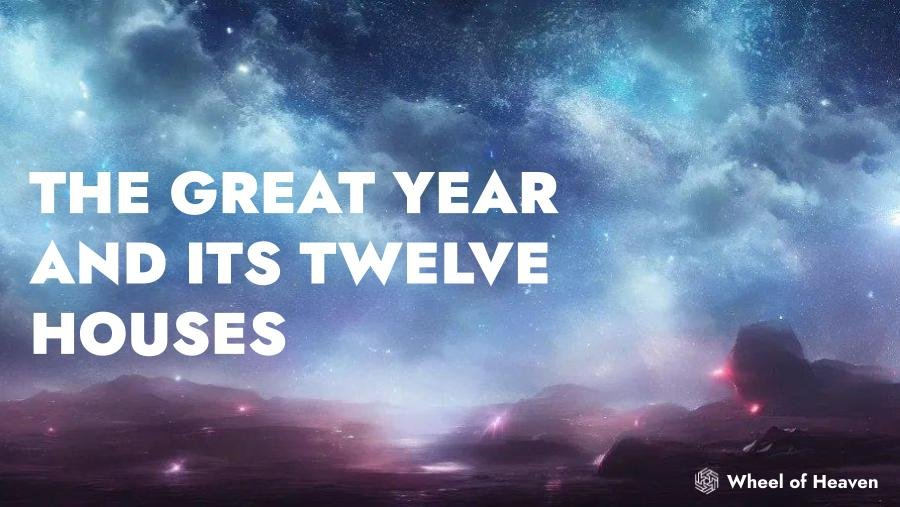
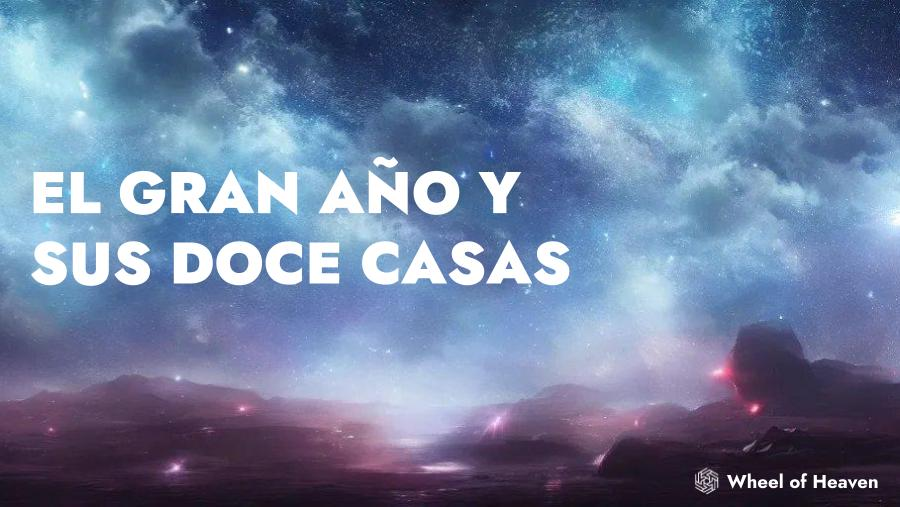
adds i18n translation into Spanish of the twelve houses article

Changed region(s): [[0.0311, 0.2959, 0.6222, 0.4438], [0.0311, 0.4734, 0.6533, 0.5621], [0.0311, 0.5917, 0.3422, 0.7101]]

diff --git a/content/es/articles/the-great-year-and-its-twelve-houses/index.md b/content/es/articles/the-great-year-and-its-twelve-houses/index.md
@@ -1,104 +1,145 @@
 ---
-title: "The Great Year and Its Twelve Houses"
-description: "The third key motion of the Earth next to the other two cycles responsible for the day and the year is what is known as the Great Year. Its cycle, also called the precession of the equinoxes, lasts 25'920 years. By dividing that cycle in 12 houses of 2’160 years each, you would be given the key to understand the purpose of the zodiac being a time marker. This knowledge is ancient and its remnants are known today as astrology."
-excerpt: "The third key motion of the Earth next to the other two cycles responsible for the day and the year is what is known as the Great Year. Its cycle, also called the precession of the equinoxes, lasts 25'920 years. By dividing that cycle in 12 houses of 2’160 years each, you would be given the key to understand the purpose of the zodiac being a time marker. This knowledge is ancient and its remnants are known today as astrology."
+title: "El Gran Año y sus Doce Casas"
+description: "El tercer movimiento clave de la Tierra, junto con los otros dos ciclos responsables del día y el año, es lo que se conoce como el Gran Año. Su ciclo, también llamado precesión de los equinoccios, dura 25.920 años. Al dividir ese ciclo en 12 casas de 2.160 años cada una, se obtendría la clave para comprender el propósito del zodíaco como marcador de tiempo. Este conocimiento es antiguo y sus vestigios son conocidos hoy en día como astrología."
+excerpt: "El tercer movimiento clave de la Tierra, junto con los otros dos ciclos responsables del día y el año, es lo que se conoce como el Gran Año. Su ciclo, también llamado precesión de los equinoccios, dura 25.920 años. Al dividir ese ciclo en 12 casas de 2.160 años cada una, se obtendría la clave para comprender el propósito del zodíaco como marcador de tiempo. Este conocimiento es antiguo y sus vestigios son conocidos hoy en día como astrología."
 date: 2023-07-07T00:00:00+00:00
 lastmod: 2023-07-07T00:00:00+00:00
 draft: false
 weight: 50
 images: ["the-great-year-and-its-twelve-houses.jpg"]
-categories: ["Context"]
-tags: ["age-of-aquarius", "the-great-awakening", "archeoastronomy"]
+categories: ["Contexto"]
+tags: ["era-de-acuario", "el-gran-despertar", "arqueoastronomía"]
 contributors: ["Zara Zinsfuss"]
 pinned: false
 homepage: false
 ---
 
-{{< alert icon="👉" text="Disclaimer: This is a revisited and slightly reworked article taken from an unmaintained blog of Zara Zinsfuss, a main contributor of Wheel of Heaven. The original blog article can still be visited on his Gitlab Pages website: <a href='https://zarazinfuss.gitlab.io/blog/posts/the-great-year-and-its-twelve-houses/'>The Great Year and Its Twelve Houses | zara◇zinsfuss</a>" />}}
+{{< alert icon="👉" text="Descargo de responsabilidad: Este es un artículo revisado y ligeramente modificado tomado de un blog no mantenido de Zara Zinsfuss, una de las principales contribuyentes de Wheel of Heaven. El artículo original del blog aún se puede visitar en su sitio web de Gitlab Pages: <a href='https://zarazinfuss.gitlab.io/blog/posts/the-great-year-and-its-twelve-houses/'>El Gran Año y sus Doce Casas | zara◇zinsfuss</a>" />}}
 
-## The Great Year
+## El Gran Año
 
-Whenever we want to understand our place in the universe, we gaze into the deep night sky, losing ourselves in the myriad of stars within our sight. It seems that the cosmic activities unfolding above us make up a grand narrative, of which we, the inhabitants of planet Earth, are merely a subscene.
+Cuando queremos comprender nuestro lugar en el universo, miramos hacia el profundo cielo nocturno, perdiéndonos en la miríada de estrellas que vemos. Parece que las actividades cósmicas que se desarrollan por encima de nosotros conforman una gran narrativa, de la cual nosotros, los habitantes del planeta Tierra, somos solo una pequeña escena.
 
-Thus, it's natural for any Earthly dweller to initiate inquiries about their location and significance in relation to the vast expanse of space and time.
+Así, es natural que cualquier habitante terrestre inicie investigaciones sobre su ubicación y su significado en relación con la vasta extensión del espacio y el tiempo.
 
-Our celestial understanding begins with acknowledging the **three key motions** of our planet Earth:
+Nuestra comprensión celestial comienza reconociendo los **tres movimientos clave** de nuestro planeta Tierra:
 
-1. Rotation around its axis
-2. Revolution around the Sun
-3. Precession of its axis
+1. Rotación alrededor de su eje
+2. Revolución alrededor del Sol
+3. Precesión de su eje
 
-The first two motions are intrinsically part of our daily life as we experience their effects in tangible ways. However, the third motion, which will be our primary focus, is less remembered despite its significance. All three motions exhibit recurrent patterns, repeating over time, forming cycles each with a specific duration or **period**.
+Los dos primeros movimientos forman parte intrínseca de nuestra vida diaria, ya que experimentamos sus efectos de manera tangible. Sin embargo, el tercer movimiento, en el que nos centraremos principalmente, es menos recordado a pesar de su importancia. Los tres movimientos exhiben patrones recurrentes, repitiéndose con el tiempo, formando ciclos cada uno con una duración o **período** específico.
 
-| Earthly Motion | Period (approx.) | Common name |
-| -              | -                | -           |
-| (1) Rotation   | 24 [h]           | Day / Night |
-| (2) Revolution | 365 [d]          | Year        |
-| (3) Precession | 26'000 [y]       | Great Year  |
+| Movimiento Terrestre | Período (aprox.) | Nombre común |
+| -                    | -                | -            |
+| (1) Rotación         | 24 [h]           | Día / Noche  |
+| (2) Revolución       | 365 [d]          | Año          |
+| (3) Precesión        | 26.000 [a]       | Gran Año     |
 
-The day-night cycle (1) is a result of the Earth's rotation and impacts life significantly. For practical purposes, we divide a day into two equal segments of `12 hours`, aligning with the [Circadian rhythm](https://en.wikipedia.org/wiki/Circadian_rhythm) that regulates wakefulness and sleep for many mammals, including humans.
+El ciclo día-noche (1) es el resultado de la rotación de la Tierra y tiene un gran impacto en la vida. Para propósitos prácticos, dividimos el día en dos segmentos iguales de `12 horas`, en línea con el [ritmo circadiano](https://es.wikipedia.org/wiki/Ritmo_circadiano) que regula la vigilia y el sueño de muchos mamíferos, incluidos los humanos.
 
-The second cycle, the year (2), is observable through the changing seasons of spring, summer, autumn, and winter, especially in higher and lower latitudes. We typically divide the solar year into twelve parts, or **months**, each approximately `30.5 days` long.
+El segundo ciclo, el año (2), es observable a través de los cambios de estaciones de primavera, verano, otoño e invierno, especialmente en latitudes más altas y más bajas. Por lo general, dividimos el año solar en doce partes, o **meses**, cada uno con una duración aproximada de `30.5 días`.
 
-The lunar cycle, though not covered in detail here, is interesting to note. It occurs almost precisely 13 times in a year, with each **lunar month** lasting slightly over `28 days`. This divergence between lunar and solar years leads to interesting questions regarding our calendar system.
+El ciclo lunar, aunque no se trata en detalle aquí, es interesante de mencionar. Ocurre casi exactamente 13 veces al año, con cada **mes lunar** con una duración ligeramente superior a `28 días`. Esta divergencia entre los años lunar y solar plantea preguntas interesantes sobre nuestro sistema de calendario.
 
-The third cycle, lesser-known yet equally significant, is the Earth's **axial precession** or **precession of the equinoxes**. Known also as **the Great Year** (3), it takes between `25,772` and `25,920 years` to complete a full cycle.
+El tercer ciclo, menos conocido pero igualmente significativo, es la **precesión axial** de la Tierra o **precesión de los equinoccios**. También conocido como **el Gran Año** (3), tarda entre `25.772` y `25.920 años` en completar un ciclo completo.
 
-[Precession]({{< relref "wiki/encyclopedia/precession.md" >}}) is a complex motion, difficult to describe without visual aids. For context, to show that we're not making this up, let's look at [Merriam-Webster](https://www.merriam-webster.com/dictionary/precession) and how they define it the notion of precession:
+[Precesión]({{< relref "wiki/encyclopedia/precession.md" >}}) es un movimiento complejo, difícil de describir sin ayudas visuales. Para contextualizar y demostrar que no lo estamos inventando, echemos un vistazo a [Merriam-Webster](https://www.merriam-webster.com/dictionary/precession) y cómo define la noción de precesión:
 
-> a comparatively slow gyration of the rotation axis of a spinning body about another line intersecting it so as to describe a cone[^merriam]
+> una giro lento y relativo del eje de rotación de un cuerpo en rotación alrededor de otra línea que lo intersecta, de manera que describe un cono[^merriam]
 
-In the case of planets such as Earth, one needs to specify that ones means the so-called precession of the equinoxes. Britannica defines the precession of the equinoxes as follows:
+En el caso de planetas como la Tierra, es necesario especificar que se trata de la llamada precesión de los equinoccios. Britannica define la precesión de los equinoccios de la siguiente manera:
 
-> ... motion of the equinoxes along the ecliptic (the plane of Earth’s orbit) caused by the cyclic precession of Earth’s axis of rotation.[^britannica]
+> ... movimiento de los equinoccios a lo largo de la eclíptica (el plano de la órbita de la Tierra) causado por la precesión cíclica del eje de rotación de la Tierra.[^britannica]
 
-The following figure elucidates axial precession, depicting the Earth's rotation axis **gyrating** in a circular pattern:
+La siguiente figura aclara la precesión axial, mostrando el eje de rotación de la Tierra **girando** en un patrón circular:
 
-{{< figure src="images/precession_schema.jpg" caption="Fig. 1 - Axial precession" >}}
+{{< figure src="images/precession_schema.jpg" caption="Fig. 1 - Precesión axial" >}}
 
-The direction of precession (circular arrow at the top) counteracts the Earth's rotational spin (circular arrows around the globe). These conflicting rotations produce a peculiar dance in our heavens. For an Earth-bound observer, this means the daily dance of the sky against the constellations counterpoints the slow waltz due to precession across its `25,920-year` cycle.
+La dirección de```markdown
+precesión (flecha circular en la parte superior) contrarresta la rotación de la Tierra (flechas circulares alrededor del globo). Estas rotaciones contradictorias producen una danza peculiar en nuestros cielos. Para un observador en la Tierra, esto significa que la danza diaria del cielo con las constelaciones contrarresta el lento vals debido a la precesión a lo largo de su ciclo de `25.920 años`.
 
-The implications of this precession are immense and serve as the bedrock of our understanding of time and astrological ages. As we journey through the Great Year, the backdrop of the stars shifts gradually. This cosmic shift, though imperceptible within a human lifespan, has profound implications over thousands of years.
+Las implicaciones de esta precesión son inmensas y constituyen la base de nuestra comprensión del tiempo y las eras astrológicas. A medida que viajamos a través del Gran Año, el telón de fondo de las estrellas cambia gradualmente. Este cambio cósmico, aunque imperceptible dentro de una vida humana, tiene profundas implicaciones a lo largo de miles de años.
 
-In the next section, we'll delve deeper into these ramifications, unravelling the astrological epochs that punctuate our celestial journey through the Great Year and their impact on our sociocultural evolution.
+En la siguiente sección, profundizaremos en estas ramificaciones, desentrañando las épocas astrológicas que marcan nuestro viaje celestial a través del Gran Año y su impacto en nuestra evolución sociocultural.
 
-[^merriam]: Merriam-Webster is a reputable and widely recognized American publisher known for producing dictionaries and reference books. According to their definition, precession refers to the slow gyration of a spinning body's rotation axis around another intersecting line, creating a cone-like motion. It is characterized by a gradual rotation that forms a cone shape over time. See here for more: [precession (noun) | Merriam-Webster](https://www.merriam-webster.com/dictionary/precession)
+[^merriam]: Merriam-Webster es un reconocido y ampliamente reconocido editor estadounidense conocido por producir diccionarios y libros de referencia. Según su definición, la precesión se refiere a la lenta giro del eje de rotación de un cuerpo giratorio alrededor de otra línea que lo intersecta, creando un movimiento cónico. Se caracteriza por una rotación gradual que forma una forma cónica con el tiempo. Consulta aquí para más información: [precession (noun) | Merriam-Webster](https://www.merriam-webster.com/dictionary/precession)
 
-[^britannica]: The precession of the equinoxes refers to the cyclic motion of the equinox points along Earth's orbital plane caused by the gradual shift in Earth's axis of rotation, as explained by Britannica, a renowned and authoritative encyclopedia publisher that provides comprehensive and reliable information on a wide range of subjects. See here for more: [precession of the equinoxes | Britannica](https://www.britannica.com/science/precession-of-the-equinoxes)
+[^britannica]: La precesión de los equinoccios se refiere al movimiento cíclico de los puntos equinocciales a lo largo del plano orbital de la Tierra causado por el desplazamiento gradual del eje de rotación de la Tierra, según lo explicado por Britannica, un editor de enciclopedias de renombre y autoridad que proporciona información completa y confiable sobre una amplia gama de temas. Consulta aquí para más información: [precession of the equinoxes | Britannica](https://www.britannica.com/science/precession-of-the-equinoxes)
 
-## The Twelve Houses
+## Las Doce Casas
 
-With the understanding of the [three key motions of the Earth](#the-great-year), we recognize that these celestial rhythms provide an intricate frame of reference that enables us to conceptualize and measure time. These cyclical motions share several intriguing characteristics:
+Con la comprensión de los [tres movimientos clave de la Tierra](#el-gran-año), reconocemos que estos ritmos celestiales proporcionan un intrincado marco de referencia que nos permite conceptualizar y medir el tiempo. Estos movimientos cíclicos comparten varias características intrigantes:
 
-+ **Definitive periodicity**: These motions, untouched by human intervention, depict a recurrent cosmic choreography, repeating the same patterns in a rhythmic cycle that is bound to start again once completed.
-+ **Consistency of time elapse**: Because of this inherent periodicity, we can expect the exact same amount of time to elapse for a given cycle. This offers a degree of predictability and reliability unmatched by human-made systems.
-+ **Granularity**: The natural segmentation of a full cycle provides smaller, discrete units of time, enabling us to perceive time in digestible bites, rather than overwhelming, continuous stretches.
++ **Periodicidad definida**: Estos movimientos, sin intervención humana, representan una coreografía cósmica recurrente, repitiendo los mismos patrones en un ciclo rítmico que está destinado a comenzar de nuevo una vez completado.
++ **Consistencia en la transcurrida del tiempo**: Debido a esta periodicidad inherente, podemos esperar que transcurra exactamente la misma cantidad de tiempo para un ciclo dado. Esto ofrece un grado de previsibilidad y confiabilidad que no se encuentra en los sistemas creados por los humanos.
++ **Granularidad**: La segmentación natural de un ciclo completo proporciona unidades de tiempo más pequeñas y discretas, lo que nos permite percibir el tiempo en porciones digeribles, en lugar de largos tramos continuos que resultarían abrumadores.
 
-These harmonious cosmic rhythms hold a profound sense of mystery and grandeur that exceeds our typical human scale of perception. Thus, using these celestial motions as a time-keeping framework becomes intuitively appealing, particularly because all three motions exhibit intervals that complement each other extraordinarily well.
+Estos armónicos ritmos cósmicos poseen un profundo sentido de misterio y grandeza que supera nuestra típica escala de percepción humana. Por lo tanto, utilizar estos movimientos celestiales como un marco de referencia para medir el tiempo resulta intuitivamente atractivo, especialmente porque los tres movimientos exhiben intervalos que se complementan extraordinariamente bien.
 
-The day, a product of the Earth's rotation, becomes a manageable unit to count a year, which in turn, stemming from the Earth's revolution, offers a feasible measure to gauge the enormity of the Great Year, a result of precession.
+El día, producto de la rotación de la Tierra, se convierte en una unidad manejable para contar un año, que a su vez, como resultado de la revolución de la Tierra, ofrece una medida factible para evaluar la enormidad del Gran Año, resultado de la precesión.
 
-This interlocking of time scales gives rise to an intriguing pattern: the division of the rotation and revolution cycles into **12 units** each. This division, while seemingly arbitrary, has far-reaching implications when applied to the precession cycle or the **Great Year**.
+Esta interconexión de escalas de tiempo da lugar a un patrón intrigante: la división de los ciclos de rotación y revolución en **12 unidades** cada una. Esta división, aunque aparentemente arbitraria, tiene implicaciones de gran alcance cuando se aplica al ciclo de precesión o al **Gran Año**.
 
-Dividing the **Great Year** by twelve gives birth to a new time unit: the Great Month, each spanning a staggering `2,160 years`. This unit embodies a vast stretch of time, dwarfing our conventional year and providing a measure for time spans that cross the threshold of millennia.
+Dividir el **Gran Año** en doce da origen a una nueva unidad de tiempo: el Gran Mes, cada uno con una asombrosa duración de `2.160 años`. Esta unidad encarna un vasto lapso de tiempo, que sobrepasa nuestro año convencional y proporciona una medida para los períodos que cruzan el umbral de los milenios.
 
-The concept of the [Great Month]({{< relref "wiki/encyclopedia/great-month.md" >}}) offers a larger temporal framework that encompasses the rise and fall of civilizations, the evolution of cultures and ideas, and the progress of scientific understanding. It gives us a perspective on time that goes beyond our personal or even historical experience, reaching into a scale that we usually reserve for geological or astronomical events.
+El concepto del [Gran Mes]({{< relref "wiki/encyclopedia/great-month.md" >}}) ofrece un marco temporal más amplio que abarca el surgimiento y la caída de civilizaciones, la evolución de culturas e ideas, y el progreso de la comprensión científica. Nos brinda una perspectiva del tiempo que va más allá de nuestra experiencia personal o incluso histórica, llegando a una escala que generalmente reservamos para eventos geológicos o astronómicos.
 
-Just as the daily and annual cycles are integral to our understanding of time, the Great Month could prove to be an essential tool for understanding longer-term trends and cycles. As our knowledge of our own (ancient) history, the constitution of planet Earth, and astronomical patterns continues to grow, we may find that the concept of the Great Month helps us make sense of patterns and events that span thousands of years, providing a broader context for understanding our place in the cosmos.
+Así como los ciclos diarios y anuales son fundamentales para nuestra comprensión del tiempo, el Gran Mes podría resultar una herramienta esencial para comprender tendencias y ciclos a largo plazo. A medida que nuestro conocimiento de nuestra propia historia (antigua), la constitución del planeta Tierra y los patrones astronómicos sigue creciendo, es posible que descubramos que el concepto del Gran Mes nos ayuda a comprender patrones y eventos que abarcan miles de años, brindando un contexto más amplio para entender nuestro lugar en el cosmos.
 
-This broader framework of time, provided by the twelve houses of the Great Year, each a Great Month, enables us to comprehend vast stretches of time that would otherwise seem incomprehensible. It is a cosmic calendar that places our transient existence into a grand chronicle of the universe.
+Este marco temporal más amplio, proporcionado por las doce casas del Gran Año, cada una un Gran Mes, nos permite comprender vastos lapsos de tiempo que de otra manera parecerían incomprensibles. Es un calendario cósmico que sitúa nuestra existencia transitoria en una gran crónica del universo.
 
-## Mapping the heavens into constellations
+## Mapeando los cielos en constelaciones
 
-As we continue our cosmic voyage, let's pause to consider the age-old human practice of Earthly stargazing and the crucial role it has played in our understanding of the universe. As highlighted in the introduction, humans across cultures and epochs have turned their gaze upwards to the celestial theater, seeking to comprehend their position amidst the glittering array of heavenly bodies. This shared fascination transcends cultures, continents, and millennia, connecting us with our ancestors in a shared quest to unravel the mysteries of the universe.
+A medida que continuamos nuestro viaje cósmico, detengámonos a considerar la antigua práctica humana de observar las estrellas terrenales y el papel crucial que ha desempeñado en nuestra comprensión del universo. Como se destacó en la introducción, los seres humanos de diversas culturas y épocas han dirigido su mirada hacia el teatro celestial, buscando comprender su posición en medio de la deslumbrante variedad de cuerpos celestiales. Esta fascinación compartida trasciende culturas, continentes y milenios, conectándonos con nuestros antepasados en una búsqueda común para desentrañar los misterios del universo.
 
-Early humans not only marveled at the stars but came up with an ingenious solution to navigate this overwhelming cosmic map: grouping the multitude of visible stars into meaningful clusters known as **constellations**. This form of early science was not only practical but ingeniously symbolic, layering each cluster with a mythological tale. Through these storied shapes, abstract cosmic data took on a narrative quality, anchoring spatial patterns in the memorable tales of gods, monsters, and heroes. The storytelling aspect is arguably as crucial as the spatial one; it facilitated knowledge transmission across generations, allowing the wisdom of the past to enlighten the present.
+Los primeros seres humanos no solo se maravillaron con las estrellas, sino que encontraron una solución ingeniosa para navegar este abrumador mapa cósmico: agrupar la multitud de estrellas visibles en conjuntos significativos conocidos como **constelaciones**. Esta forma de ciencia temprana no solo era práctica, sino ingeniosamente simbólica, dotando a cada conjunto de una historia mitológica. A través de estas formas simbólicas, los datos cósmicos abstractos adquirieron una cualidad narrativa, anclando los patrones espaciales en los relatos memorables de dioses, monstruos y héroes. El aspecto narrativo es tan crucial como el espacial; facilitó la transmisión de conocimientos a lo largo de las generaciones, permitiendo que la sabiduría del pasado iluminara el presente.
 
-Armed with the ability to recognize these celestial patterns, humans could discern practical, actionable information, such as the timing of agricultural activities or navigation for long sea voyages. The constellations became our cosmic compass, guiding our way through the seasons and across vast bodies of water.
+Armados con la capacidad de reconocer estos patrones celestiales, los seres humanos pudieron discernir información práctica y aplicable, como la sincronización de actividades agrícolas o la navegación en largos viajes marítimos. Las constelaciones se convirtieron en nuestra brújula cósmica, guiándonos a través de las estaciones y a través de vastos cuerpos de agua.
 
-Yet, the stellar canvas is not static. As we just learned a few paragraphs earlier, the gradual progression of axial precession, despite its subtle nature, inexorably reshapes the constellations' arrangement in the night sky. This slow celestial dance, overlooked by casual observers, becomes apparent to those invested in careful, long-term celestial tracking. With axial precession taking approximately `25'920 years` for a full cycle, a shift of `1°` on the celestial sphere equates to a time span of `72 years`, roughly aligning with an average human lifetime. Remarkably, this `1°` shift is also closely proportional to the combined apparent diameter of the Sun and the Moon in our sky.
+Sin embargo, el lienzo estelar no es estático. Como aprendimos hace unos párrafos, la progresión gradual de la precesión axial, a pesar de su naturaleza sutil, remodela inexorablemente la disposición de las constelaciones en el cielo nocturno. Esta lenta danza celestial, pasada por alto por los observadores casuales, se vuelve evidente para aquellos que se dedican al seguimiento celestial cuidadoso y a largo plazo. Con la precesión axial tomando aproximadamente `25.920 años` para un ciclo completo, un desplazamiento de `1°` en la esfera celestial equivale a un lapso de tiempo de `72 años`, que se alinea aproximadamente con una vida humana promedio. Sorprendentemente, este desplazamiento de `1°` también es proporcionalmente cercano al diámetro aparente combinado del Sol y la Luna en nuestro cielo.
 
-Such findings underscore the sheer complexity of observing and comprehending axial precession. Without efficient means for inter-generational persistence of empirical knowledge, the task becomes even more daunting. Yet, humanity's enduring curiosity and capacity for pattern recognition have allowed us to pierce this cosmic mystery, using nothing more than our naked eyes and the night sky as a canvas for our stories and mathematical explorations.
+Estos hallazgos subrayan la complejidad misma de observar y comprender la precesión axial. Sin medios eficientes para la persistencia intergeneracional del conocimiento empírico, la tarea se vuelve aún más desafiante. Sin embargo, la curiosidad perdurable de la humanidad y nuestra capacidad para reconocer patrones nos han permitido penetrar este misterio cósmico, utilizando nada más que nuestros ojos desnudos y el cielo nocturno como lienzo para nuestras historias y exploraciones matemáticas.
+
+## Marcando el tiempo: La importancia de los días cardinales en un año
+
+Antes de continuar nuestro viaje cósmico, es crucial enfocarnos en otro aspecto distintivo del viaje anual de la Tierra alrededor del Sol, influenciado por la inclinación axial del planeta de `23,44°` con respecto a su plano orbital. Esta inclinación no solo le da a nuestro planeta su característico ritmo estacional, sino que también afecta cómo percibimos la luz del Sol a lo largo del año.
+
+Profundicemos un poco en estos conceptos astronómicos. El **ecuador celeste** es la proyección del ecuador terrestre en el cielo, mientras que la **eclíptica** es la aparente trayectoria que el Sol traza en esta esfera celestial debido a la revolución de la Tierra. El ecuador celeste y la eclíptica se intersectan dos veces al año en dos puntos específicos, marcando los **equinoccios de primavera y otoño**. Estos equinoccios señalan el momento en el que la duración del día y la noche es igual en todo el mundo. El **equinoccio de primavera** (también conocido como **equinoccio vernal**) generalmente ocurre el 20 de marzo, y el **equinoccio de otoño** alrededor del 22 de septiembre.
+
+Por otro lado, los **solsticios de verano e invierno** denotan los momentos en los que un hemisferio de la Tierra experimenta el día más largo o la noche más larga del año, respectivamente. El **solsticio de verano** generalmente ocurre el 21 de junio, mientras que el **solsticio de invierno** ocurre alrededor del 21 de diciembre.
+
+Estos equinoccios y solsticios, los **días cardinales**, se consideran hitos astronómicos fundamentales en nuestro calendario, marcando el inicio de cada estación.
+
+| Cardinalidad         | Día en un año                    | Perceptibilidad                          |
+| -                    | -                                | -                                        |
+| **Equinoccio de primavera**  | ~ 20 de marzo          | Día y noche de igual duración           |
+| **Solsticio de verano**      | ~ 21 de junio           | Día más largo en el Hemisferio Norte     |
+| **Equinoccio de otoño**      | ~ 22 de septiembre      | Día y noche de igual duración           |
+| **Solsticio de invierno**    | ~ 21 de diciembre       | Noche más larga en el Hemisferio Norte   |
+
+Ten en cuenta que un equinoccio o solsticio representa un momento específico en el tiempo cuando el **ecuador celeste** se alinea con la **eclíptica**, no todo un día. Otra forma de definir un equinoccio es el momento en el que el centro visible del Sol está directamente sobre el ecuador terrestre.
+
+Al ver la Tierra como un gran reloj celestial, los días cardinales se pueden ver como marcadores para los **cuatro cuadrantes** en la esfera de un reloj. En esencia, si seleccionamos un momento para comparar mediciones celestiales, los días cardinales, especialmente los **equinoccios**, serían los más deseables debido a sus características observables a nivel mundial.
+
+## Relojería astronómica
+
+Navegar la intricada coreografía de las tres principales movimientos de la Tierra -dos de los cuales presentan una periodicidad rápida- es una tarea exigente, especialmente al tratar de discernir el ritmo glacial del tercer movimiento, la **precesión**. Su lenta y solemne progresión requiere que el observador seleccione un momento específico cada año para la observación estelar, similar a la interacción de distintos mecanismos dentro de un reloj de pulsera mecánico que trabajan en armonía para representar con precisión el tiempo. Al igual que un reloj de pulsera utiliza una referencia de tiempo, típicamente `0` o `12 en punto`, el Gran Año también requiere un punto de referencia definitorio.
+
+Para construir nuestro modelo de un reloj astronómico, debemos considerar puntos de referencia específicos, a saber:
+
++ **Primer movimiento [rotación]**: Amanecer, que anuncia el inicio de un nuevo día.
++ **Segundo movimiento [revolución]**: Equinoccio de primavera, marcando la llegada de un nuevo ciclo de estaciones.
++ **Punto de```markdown
+referencia geográfica**: Este, la dirección desde la cual el Sol hace su ascenso diario.
+
+Al aprovechar estos parámetros sensibles para establecer nuestro punto de 'cero', ahora podemos observar el tapiz celeste: las estrellas o constelaciones, desplegándose en el telón de fondo del **Gran Año**.
+
+Uno podría preguntarse entonces, ¿qué constelación adorna el cielo antes del amanecer en el equinoccio de primavera, ascendiendo al unísono con el Sol hacia el este, **en nuestra era actual**?
+
+{{< figure src="images/20202003_vernal_equinox_stellarium.jpg" caption="Fig. 2 - Equinoccio de primavera el 20 de marzo de 2020 hacia el este, capturado con Stellarium" >}}
+
+Al mirar hacia los cielos, nos encontramos en el umbral de un cambio cósmico, donde la constelación de Piscis está dando paso a la próxima constelación de Acuario. Esta transición celestial marca silenciosamente el paso de los milenios, un gran reloj celestial avanzando hacia una nueva era. Este es el momento preciso en el que lo antiguo y lo actual convergen, brindándonos una valiosa visión del cambio cósmico hacia una nueva era. Una nueva era que podría haber sido fácilmente predicha durante milenios si se hubiera tenido conocimiento y conciencia sobre la precesión axial.
 
 ## Marking Time: The Importance of Cardinal Days in a Year
 
